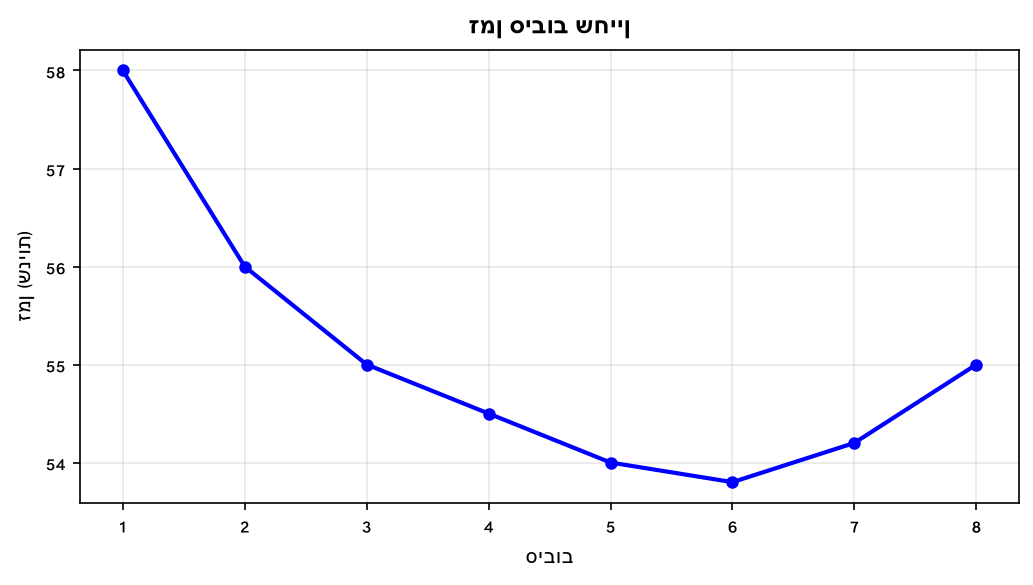
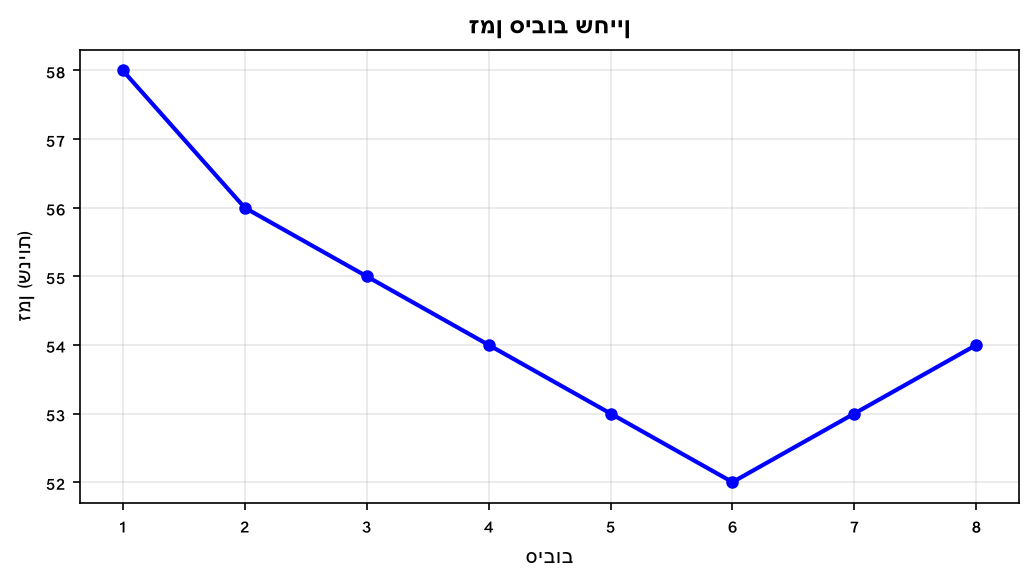
fix 3.1 & 3.2

diff --git a/generate_graphs.py b/generate_graphs.py
@@ -107,11 +107,11 @@ ex(S,9,'מסלול ריצת ספורטאי','זמן (דקות)','מרחק (ק"מ
 ex(S,10,'מחיר מניה לפי ימי מסחר','יום','מחיר (₪)',[1,2,3,4,5,6,7,8,9,10],[80,95,120,100,90,110,130,125,140,155],ytick_step=10)
 ex(S,11,'עלות השכרת קורקינט','דקות','עלות (₪)',[0,10,20,30,60,90],[6,8,10,12,18,24],ytick_step=2)
 ex(S,12,'טמפרטורת תנור','זמן (דקות)','טמפ\' (°C)',[0,20,40,60,80,100],[20,200,200,120,60,25])
-ex(S,13,'זמן סיבוב שחיין','סיבוב','זמן (שניות)',[1,2,3,4,5,6,7,8],[58,56,55,54.5,54,53.8,54.2,55])
+ex(S,13,'זמן סיבוב שחיין','סיבוב','זמן (שניות)',[1,2,3,4,5,6,7,8],[58,56,55,54,53,52,53,54],ytick_step=1)
 ex(S,14,'גובה כדור שנזרק','זמן (שניות)','גובה (מטרים)',[0,1,2,3,4],[0,15,20,15,0])
-ex(S,15,'כמות חיידקים לפי זמן','שעות','חיידקים (אלפים)',[0,2,4,6,8],[2,8,32,128,500])
+ex(S,15,'כמות חיידקים לפי זמן','שעות','חיידקים (אלפים)',[0,2,4,6,8],[50,100,200,300,500],ytick_step=50)
 ex(S,16,'תכולת מיכל מים','שעה','מים (ל\')',[6,8,10,12,14,16,18,20],[0,400,400,250,100,400,400,0],time_x=True)
-ex(S,17,'עלות השכרת רכב','מרחק (ק"מ)','עלות (₪)',[0,100,200,300],[200,350,500,650])
+ex(S,17,'עלות השכרת רכב','מרחק (ק"מ)','עלות (₪)',[0,100,150,200,300],[200,350,425,500,650],ytick_step=25)
 ex(S,18,'צריכת חשמל במפעל','שעה','קוט"ש',[0,6,8,12,16,18,22,24],[50,50,250,400,400,200,100,50],time_x=True)
 ex(S,19,'הכנסות חברה לאורך 8 חודשים','חודש','הכנסות (₪ אלפים)',[1,2,3,4,5,6,7,8],[120,135,110,145,160,155,175,190],ytick_step=5)
 ex(S,20,'מסלול טיול משפחתי','שעה','מרחק מהבית (ק"מ)',[8,9.5,10,12,13,15,16,18],[0,60,60,100,100,40,40,0],time_x=True)

diff --git a/scripts/פרומפט_בדיקת_איכות_קובץ.md b/scripts/פרומפט_בדיקת_איכות_קובץ.md
@@ -5,6 +5,21 @@
 
 ---
 
+## תחום הפרומפט
+
+פרומפט זה בודק **תוכן ונכונות מתמטית** בלבד: ניסוח השאלה, דיוק גרפים/צורות, ונכונות התשובות.
+
+**אין לגעת בנושאים הבאים — הם מטופלים בנפרד ב־`scripts/פרומפט_יישור_פתרונות_פרק_לגיטהאב.md`:**
+- הפרדת עברית ו־LaTeX לשורות נפרדות
+- ריווח וצפיפות בין תשובות ממוספרות
+- מבנה בלוק «תשובות סופיות» (`<details>`)
+- עיצוב RTL, מרווחים ותצוגה בגיטהאב
+- מבנה סעיפים א׳–ב׳–ג׳ מבחינת שורות ריקות וצפיפות
+
+**בעת תיקונים:** עדכן רק ניסוח שאלות וערכי תשובות שגויים. **אל** תשנה מבנה Markdown, שורות ריקות, או סידור שורות בתשובות.
+
+---
+
 בדוק את הקובץ הבא תרגיל אחרי תרגיל. עבור כל תרגיל בדוק את שלושת הדברים הבאים:
 
 ---
@@ -13,7 +28,6 @@
 
 - האם השאלה מנוסחת בצורה ברורה, חד-משמעית ונכונה מבחינה מתמטית?
 - האם מספור סעיפי-המשנה (א, ב, ג...) עקבי?
-- האם אין עירוב של עברית בתוך ביטויי LaTeX?
 - האם השאלה עומדת בכוחות עצמה — כלומר, כל הנתונים הדרושים לפתרון מופיעים בשאלה עצמה?
 
 ---
@@ -43,7 +57,6 @@
 - חשב בעצמך את התשובה לכל סעיף.
 - האם התשובה בסוף הקובץ תואמת לחישוב שלך?
 - האם ניתן להסיק את התשובה **אך ורק** מהגרף/צורה המצורפים, ללא מידע חיצוני?
-- האם כל חלקי התשובה מנוסחים בצורה נכונה (LaTeX, מרווחים, RTL)?
 
 ---
 
@@ -54,8 +67,8 @@
 2. תאר את הבעיה בדיוק
 3. הצע תיקון ספציפי
 
-בסיום — בצע את כל התיקונים הנדרשים:
+בסיום — בצע את כל התיקונים הנדרשים **בתחום התוכן בלבד**:
 
-- **קובץ Markdown:** עדכן ניסוח שאלות ותשובות שגויות
+- **קובץ Markdown:** עדכן ניסוח שאלות שגוי וערכי תשובות שגויים. **אל** תשנה מבנה שורות, ריווח, או סידור LaTeX/עברית.
 - **אם גרף דורש שינוי:** עדכן את הנתונים ב-`generate_graphs.py` עבור התת-נושא הרלוונטי, הרץ מחדש **רק** את אותו תת-נושא, ווודא שהגרף החדש אכן תקין לפני המשך
 - **אם צורה הנדסית דורשת שינוי:** עדכן את קוד יצירת הצורה הרלוונטי והרץ מחדש

diff --git a/3 - קריאת והבנת מידע מגרפים מסיפורי מעשה/1_היכרות_עם_צירי_הגרף.md b/3 - קריאת והבנת מידע מגרפים מסיפורי מעשה/1_היכרות_עם_צירי_הגרף.md
@@ -267,7 +267,7 @@
 
 ב. מה הכנסות חודש 2 בשקלים ממש (לא אלפים)?
 
-ג. באיזה חודש הייתה ירידה בהכנסות לעומת החודש הקודם?
+ג. באילו חודשים הייתה ירידה בהכנסות לעומת החודש הקודם?
 
 ד. מה ההפרש בין הכנסות חודש 8 לחודש 1, בשקלים ממש?
 
@@ -358,7 +358,7 @@
 13.
 א. ציר x: מספר סיבוב, ציר y: זמן הסיבוב (שניות).
 ב. השחיין שחה מהר יותר — פחות שניות משמע ביצוע טוב יותר.
-ג. מסיבוב 7 (עלייה מ-53.8 ל-54.2 שניות).
+ג. מסיבוב 7 (עלייה מ-52 ל-53 שניות).
 
 14.
 א. ציר x: זמן (שניות), ציר y: גובה (מטרים).
@@ -368,7 +368,7 @@
 
 15.
 א. ציר x: זמן (שעות), ציר y: כמות חיידקים (אלפים).
-ב. בתחילת הניסוי (שעה 0) היו 2,000 חיידקים.
+ב. בתחילת הניסוי (שעה 0) היו 50,000 חיידקים.
 ג. לאחר 8 שעות:
 $500{,}000$
 חיידקים.
